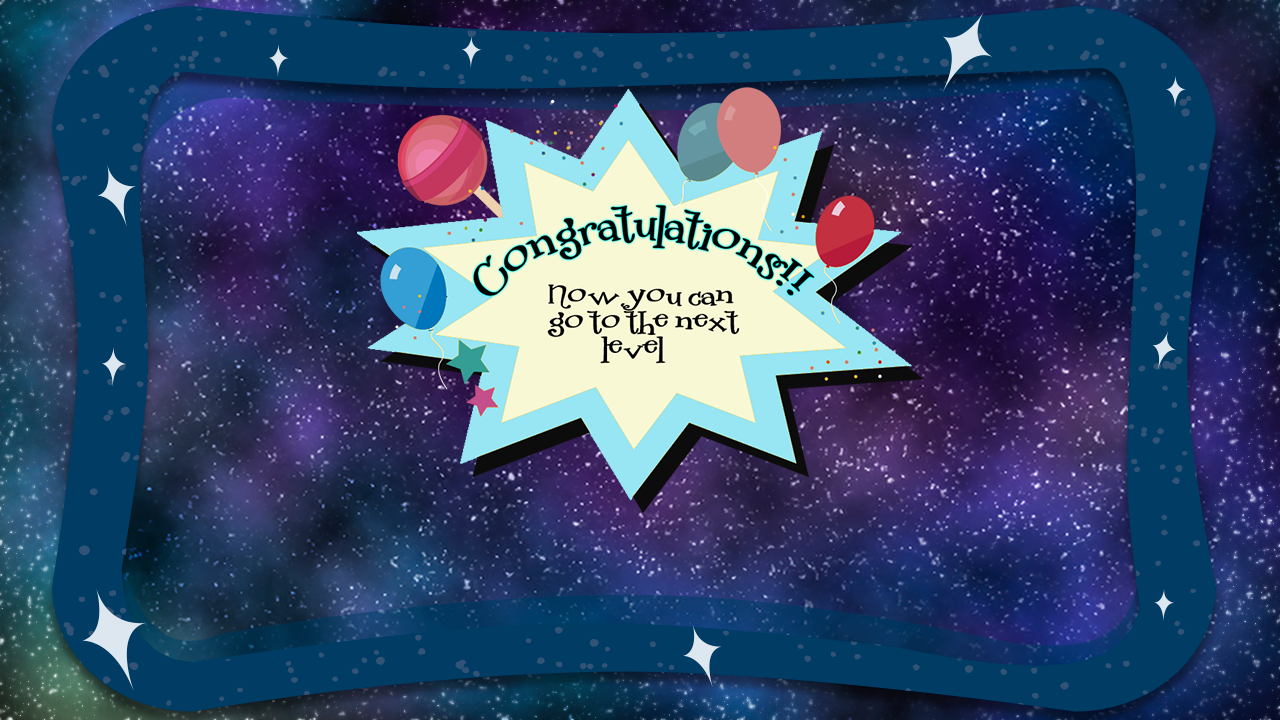
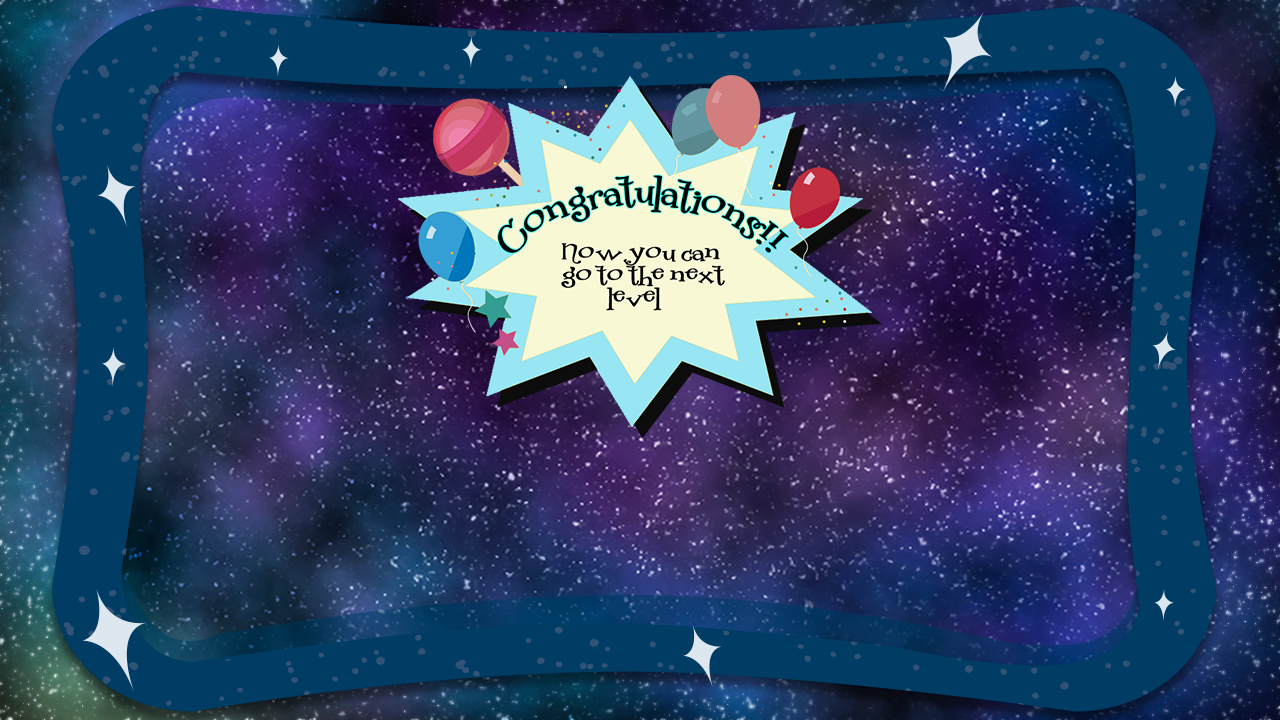
Últimos detalles

Changed region(s): [[0.2812, 0.0917, 0.7188, 0.7028]]

diff --git a/core/src/mx/itesm/wayakkk/PrimerNivelCompletado.java b/core/src/mx/itesm/wayakkk/PrimerNivelCompletado.java
@@ -71,19 +71,14 @@ public class PrimerNivelCompletado implements Screen {
 
         texturaBtnQuit = new Texture(Gdx.files.internal("QUIT.png"));
         spriteBtnQuit = new Sprite(texturaBtnQuit);
-        spriteBtnQuit.setPosition(Principal.ANCHO_MUNDO / 2 - spriteBtnQuit.getWidth() / 2,
-                (float) (Principal.ALTO_MUNDO / 1.7));
+        spriteBtnQuit.setPosition((float) (Principal.ANCHO_MUNDO / 3.5 - spriteBtnQuit.getWidth() / 2),
+                (float) (Principal.ALTO_MUNDO / 4.5));
 
-        texturaBtnContinue = new Texture(Gdx.files.internal("sonno.png"));
+        texturaBtnContinue = new Texture(Gdx.files.internal("CONTINUE.png"));
         spriteBtnContinue = new Sprite(texturaBtnContinue);
-        spriteBtnContinue.setPosition((float) (Principal.ANCHO_MUNDO / 2 - spriteBtnContinue.getWidth() / 2),
-                (float) (Principal.ALTO_MUNDO / 2.75));
+        spriteBtnContinue.setPosition((float) (Principal.ANCHO_MUNDO / 1.5 - spriteBtnContinue.getWidth() / 2),
+                (float) (Principal.ALTO_MUNDO / 4.5));
 
-
-        texturaBtnReturn = new Texture(Gdx.files.internal("RETURN.png"));
-        spriteBtnReturn = new Sprite(texturaBtnReturn);
-        spriteBtnReturn.setPosition((float) (Principal.ANCHO_MUNDO / 1.2 - spriteBtnReturn.getWidth() / 2),
-                Principal.ALTO_MUNDO / 7);
     }
 
     @Override
@@ -99,7 +94,6 @@ public class PrimerNivelCompletado implements Screen {
         spriteFondo.draw(batch);
         spriteBtnQuit.draw(batch);
         spriteBtnContinue.draw(batch);
-        spriteBtnReturn.draw(batch);
 
         batch.end();
     }
@@ -154,6 +148,7 @@ public class PrimerNivelCompletado implements Screen {
                 principal.setScreen(new mx.itesm.wayakkk.PantallaMenu(principal));
 
             }
+
         }
     }
 }

diff --git a/core/src/mx/itesm/wayakkk/SegundoNivelCompletado.java b/core/src/mx/itesm/wayakkk/SegundoNivelCompletado.java
@@ -70,19 +70,13 @@ public class SegundoNivelCompletado implements Screen {
 
         texturaBtnQuit = new Texture(Gdx.files.internal("QUIT.png"));
         spriteBtnQuit = new Sprite(texturaBtnQuit);
-        spriteBtnQuit.setPosition(Principal.ANCHO_MUNDO / 2 - spriteBtnQuit.getWidth() / 2,
-                (float) (Principal.ALTO_MUNDO / 1.7));
+        spriteBtnQuit.setPosition((float) (Principal.ANCHO_MUNDO / 3.5 - spriteBtnQuit.getWidth() / 2),
+                (float) (Principal.ALTO_MUNDO / 4.5));
 
-        texturaBtnContinue = new Texture(Gdx.files.internal("sonno.png"));
+        texturaBtnContinue = new Texture(Gdx.files.internal("CONTINUE.png"));
         spriteBtnContinue = new Sprite(texturaBtnContinue);
-        spriteBtnContinue.setPosition((float) (Principal.ANCHO_MUNDO / 2 - spriteBtnContinue.getWidth() / 2),
-                (float) (Principal.ALTO_MUNDO / 2.75));
-
-
-        texturaBtnReturn = new Texture(Gdx.files.internal("RETURN.png"));
-        spriteBtnReturn = new Sprite(texturaBtnReturn);
-        spriteBtnReturn.setPosition((float) (Principal.ANCHO_MUNDO / 1.2 - spriteBtnReturn.getWidth() / 2),
-                Principal.ALTO_MUNDO / 7);
+        spriteBtnContinue.setPosition((float) (Principal.ANCHO_MUNDO / 1.5 - spriteBtnContinue.getWidth() / 2),
+                (float) (Principal.ALTO_MUNDO / 4.5));
     }
 
     @Override
@@ -98,7 +92,6 @@ public class SegundoNivelCompletado implements Screen {
         spriteFondo.draw(batch);
         spriteBtnQuit.draw(batch);
         spriteBtnContinue.draw(batch);
-        spriteBtnReturn.draw(batch);
 
         batch.end();
     }

diff --git a/core/src/mx/itesm/wayakkk/PantallaMenu.java b/core/src/mx/itesm/wayakkk/PantallaMenu.java
@@ -102,7 +102,7 @@ public class PantallaMenu implements Screen {
         spriteBtnAjustes.setPosition(Principal.ANCHO_MUNDO / 2 - spriteBtnAjustes.getWidth() / 2,
                 (float) (Principal.ALTO_MUNDO / 4.8));
 
-        texturaBtnInstrucciones = new Texture(Gdx.files.internal("SETTINGS.png"));
+        texturaBtnInstrucciones = new Texture(Gdx.files.internal("help1.png"));
         spriteBtnInstrucciones = new Sprite(texturaBtnInstrucciones);
         spriteBtnInstrucciones.setPosition(Principal.ANCHO_MUNDO / 2 - spriteBtnInstrucciones.getWidth() / 2,
                 (float) (Principal.ALTO_MUNDO / 23));
@@ -149,7 +149,7 @@ public class PantallaMenu implements Screen {
                     touchX <= spriteBtnJugar.getX() + spriteBtnJugar.getWidth()
                     && touchY >= spriteBtnJugar.getY()
                     && touchY <= spriteBtnJugar.getY() + spriteBtnJugar.getHeight()) {
-                principal.setScreen(new PantallaToyStation(principal));
+                principal.setScreen(new SegundoNivelCompletado(principal));
 
             }
             if (touchX >= spriteBtnAjustes.getX() &&
